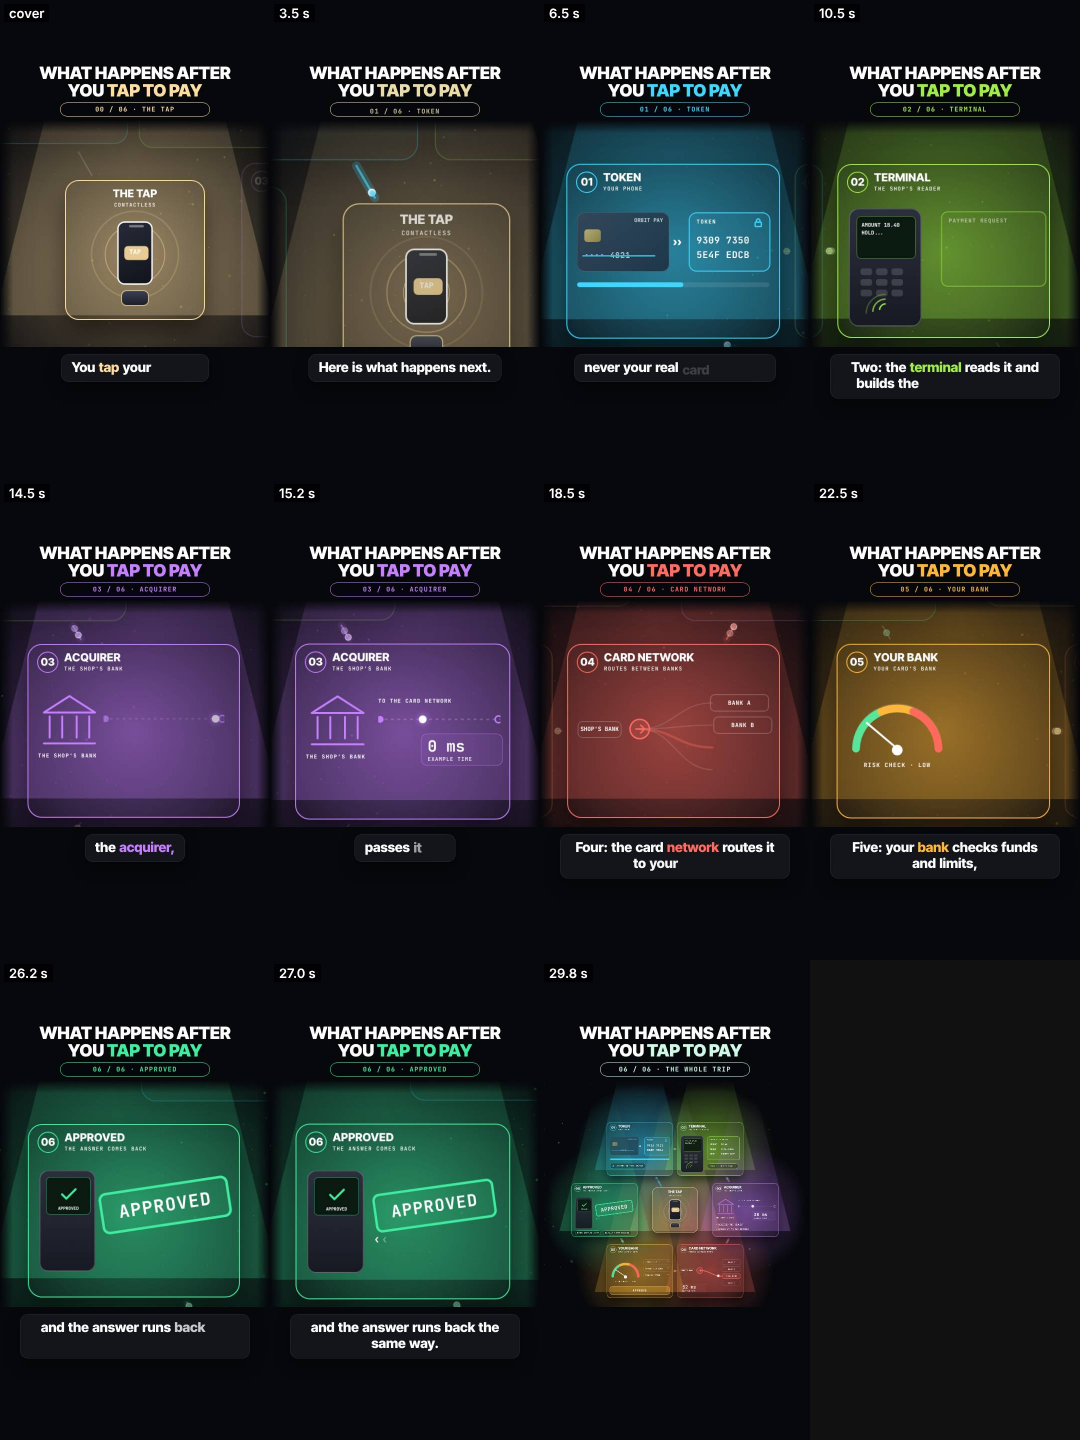
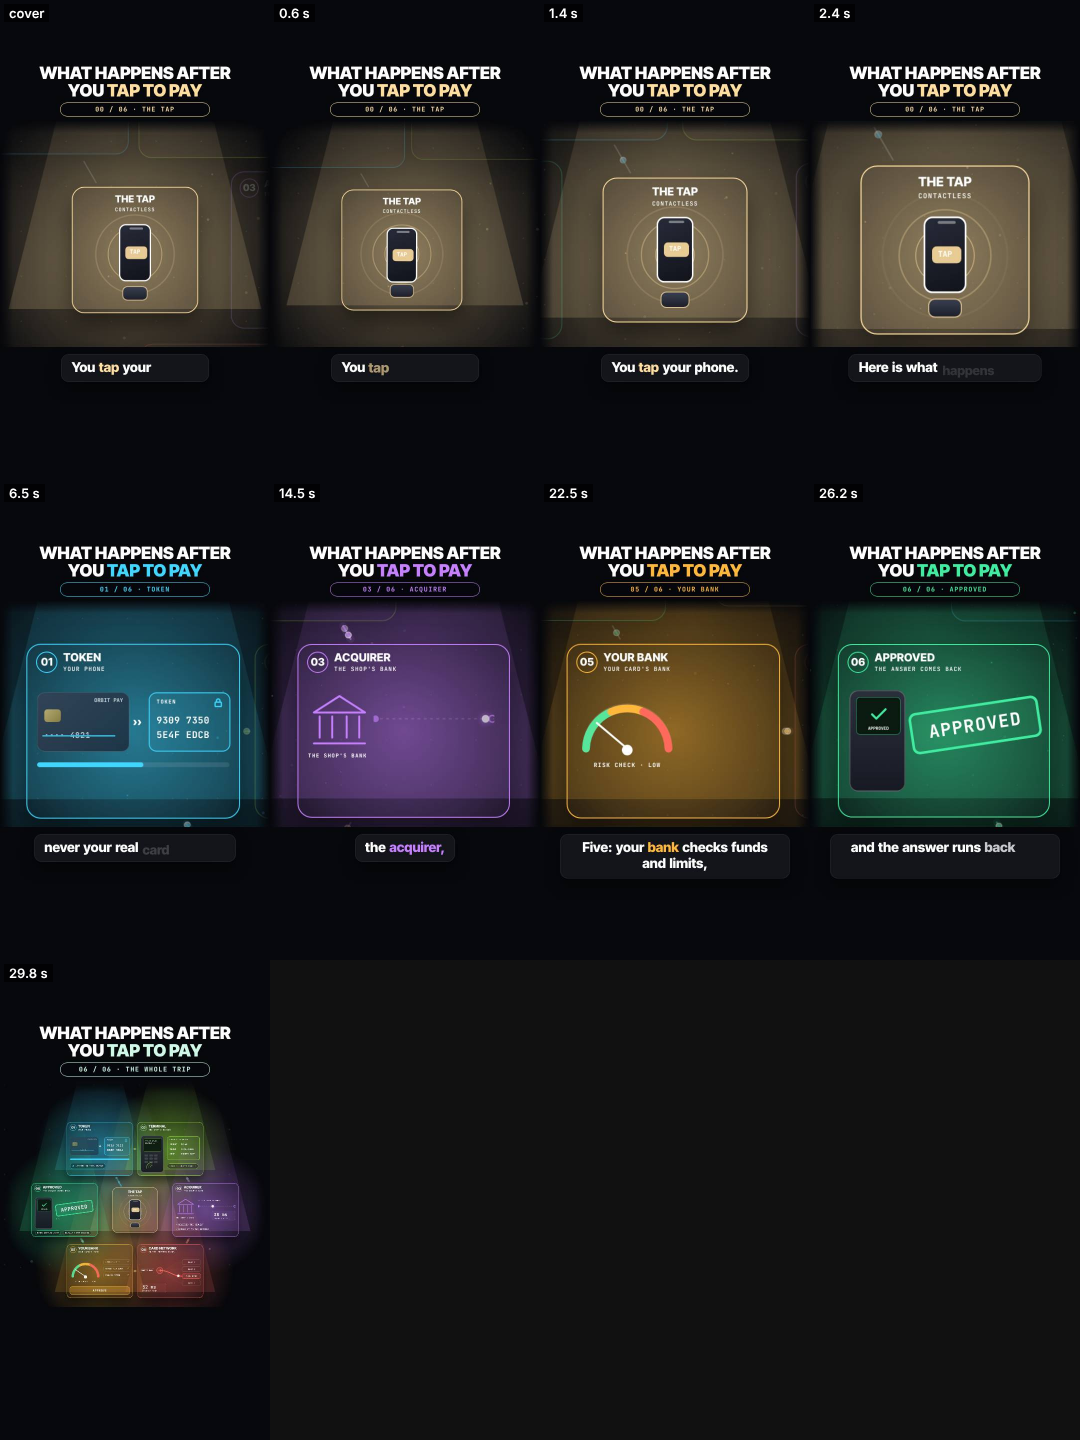
Tech 2.5D test: wide opening on the building map, pill rolls mid-flight, calmer light
Claude-Session: https://claude.ai/code/session_01AYvWRi2rvhxiH5SVcHrGnh

diff --git a/scripts/previews/tech-2d5-test.html b/scripts/previews/tech-2d5-test.html
@@ -28,7 +28,7 @@ html,body{width:540px;height:960px;overflow:hidden;background:var(--ink);font-fa
 .card{left:0;top:0;width:100%;height:100%;border-radius:30px;background:linear-gradient(160deg,var(--ct),rgba(12,14,20,.98) 70%);border:2px solid var(--c);box-shadow:0 30px 60px rgba(0,0,0,.55)}
 .badge{left:20px;top:16px;width:44px;height:44px;border-radius:50%;border:2.5px solid var(--c);color:var(--c);font:800 22px/39px var(--f);text-align:center}
 .nm{left:76px;top:17px;font:800 23px/1 var(--f);letter-spacing:.01em;white-space:nowrap}
-.sb{left:76px;top:46px;font:500 11px/1 var(--m);letter-spacing:.14em;color:rgba(255,255,255,.55);white-space:nowrap}
+.sb{left:76px;top:46px;font:500 12px/1 var(--m);letter-spacing:.12em;color:rgba(255,255,255,.6);white-space:nowrap}
 .mono{font-family:var(--m)}
 .pill2{border-radius:999px;border:1.5px solid var(--c);color:var(--c);font:700 12px/1 var(--m);letter-spacing:.1em;padding:9px 14px;white-space:nowrap;background:rgba(0,0,0,.35)}
 #view{color:#fff;-webkit-text-fill-color:#fff;left:0;top:240px;width:540px;height:454px;overflow:hidden;-webkit-mask-image:linear-gradient(rgba(0,0,0,0) 0,#000 26px);mask-image:linear-gradient(rgba(0,0,0,0) 0,#000 26px)}
@@ -77,7 +77,7 @@ html,body{width:540px;height:960px;overflow:hidden;background:var(--ink);font-fa
   function cam(t){
     var x, y, s, a, b, k;
     if (t < DEP[0]){   // opening: a wide view of the map pushes into the hub
-      k = io(P(t, 0, 2.2)); x = CXW; y = CYW; s = mix(.84, 1.12, k) + .03 * P(t, 2.2, DEP[0]); return [x, y, s];
+      k = io(P(t, 0, 2.6)); x = CXW; y = CYW; s = mix(.76, 1.12, k) + .03 * P(t, 2.2, DEP[0]); return [x, y, s];
     }
     if (t >= PB0){ k = io(P(t, PB0, PB1)); a = stopAt(6); x = mix(a[0] + 6, CXW, k); y = mix(a[1], CYW, k); s = mix(.98, .3, k) ; return [x, y, s - .09 * Math.sin(Math.PI * k) * 0]; }
     for (var i = 0; i < 6; i++){
@@ -111,7 +111,7 @@ html,body{width:540px;height:960px;overflow:hidden;background:var(--ink);font-fa
   for (var i = 0; i <= 6; i++){
     var c = COL[i], w = i ? 440 : 300, h = i ? 360 : 300, px = PTS[i][0], py = PTS[i][1];
     var sp = E(spots, '', 'left:' + (px - 450) + 'px;top:' + (py - 450) + 'px;width:900px;height:900px;opacity:0;background:radial-gradient(circle,' + rgb(c, .5) + ' 0,' + rgb(c, .18) + ' 40%,rgba(0,0,0,0) 68%)', '');
-    var cone = E(spots, 'cone', 'left:' + (px - 300) + 'px;top:' + (py - 760) + 'px;width:600px;height:900px;opacity:0;background:linear-gradient(rgba(0,0,0,0),' + rgb(c, .32) + ')', '');
+    var cone = E(spots, 'cone', 'left:' + (px - 300) + 'px;top:' + (py - 760) + 'px;width:600px;height:900px;opacity:0;background:linear-gradient(rgba(0,0,0,0),' + rgb(c, .22) + ')', '');
     var nd = E(nodes, 'nd' + (i ? '' : ' hub'), 'left:' + (px - w / 2) + 'px;top:' + (py - h / 2) + 'px;--c:' + rgb(c), '');
     E(nd, 'card', '', '');
     if (i){ E(nd, 'badge', '', '0' + i); E(nd, 'nm', '', NAME[i]); E(nd, 'sb', '', SUBT[i]); }
@@ -189,7 +189,7 @@ html,body{width:540px;height:960px;overflow:hidden;background:var(--ink);font-fa
     var lab = E(nd, 'mono', 'left:22px;top:226px;font:700 11px/1 var(--m);letter-spacing:.14em;color:' + cs, 'THE SHOP\'S BANK');
     var rt = E(nd, '', 'left:170px;top:140px;width:250px;height:30px', '<svg width="250" height="30"><line x1="0" y1="15" x2="250" y2="15" stroke="rgba(255,255,255,.2)" stroke-width="3" stroke-dasharray="6 7"/><circle cx="4" cy="15" r="7" fill="' + cs + '"/><circle cx="246" cy="15" r="7" fill="none" stroke="' + cs + '" stroke-width="3"/></svg><div id="dot3" class="a" style="left:0;top:7px;width:16px;height:16px;border-radius:50%;background:#fff;box-shadow:0 0 14px ' + cs + '"></div>');
     var tg = E(nd, 'mono', 'left:170px;top:112px;font:700 11px/1 var(--m);letter-spacing:.12em;color:rgba(255,255,255,.6)', 'TO THE CARD NETWORK');
-    var ms = E(nd, '', 'left:262px;top:186px;width:158px;height:62px;border-radius:12px;border:1.5px solid ' + rgb(c, .6) + ';background:rgba(198,128,255,.08)', '<div id="ms3" class="a mono" style="left:12px;top:8px;font:800 30px/1 var(--m)"></div><div class="a mono" style="left:12px;top:44px;font:500 10px/1 var(--m);letter-spacing:.12em;color:rgba(255,255,255,.55)">EXAMPLE TIME</div>');
+    var ms = E(nd, '', 'left:262px;top:186px;width:158px;height:62px;border-radius:12px;border:1.5px solid ' + rgb(c, .6) + ';background:rgba(198,128,255,.08)', '<div id="ms3" class="a mono" style="left:12px;top:8px;font:800 30px/1 var(--m)"></div><div class="a mono" style="left:12px;top:44px;font:500 11px/1 var(--m);letter-spacing:.12em;color:rgba(255,255,255,.55)">EXAMPLE TIME</div>');
     var r1 = E(nd, 'mono', 'left:22px;top:270px;font:700 14px/1 var(--m);white-space:nowrap', '<span style="color:' + cs + '">&#10003;</span> RECEIVES THE REQUEST');
     var r2 = E(nd, 'mono', 'left:22px;top:302px;font:700 14px/1 var(--m);white-space:nowrap', '<span style="color:' + cs + '">&#10003;</span> PASSES IT TO THE NETWORK');
     var d3 = nd.querySelector('#dot3'), m3 = nd.querySelector('#ms3');
@@ -205,7 +205,7 @@ html,body{width:540px;height:960px;overflow:hidden;background:var(--ink);font-fa
     S(sv, 'circle', { cx: 150, cy: 176, r: 20, fill: 'rgba(255,108,98,.18)', stroke: cs, 'stroke-width': 3 }); S(sv, 'path', { d: 'M142 176h16M152 168l8 8-8 8', fill: 'none', stroke: cs, 'stroke-width': 3, 'stroke-linecap': 'round', 'stroke-linejoin': 'round' });
     var sh = E(nd, 'mono', 'left:22px;top:160px;width:90px;height:34px;border-radius:10px;border:1.5px solid rgba(255,255,255,.4);font:700 12px/31px var(--m);text-align:center', 'SHOP\'S BANK');
     var bks = BY.map(function(y, n){ return E(nd, 'mono', 'left:300px;top:' + y + 'px;width:122px;height:36px;border-radius:10px;border:2px solid ' + (n === sel ? cs : 'rgba(255,255,255,.22)') + ';font:700 12px/32px var(--m);text-align:center;letter-spacing:.06em;' + (n === sel ? 'background:' + rgb(c, .18) : 'color:rgba(255,255,255,.55)'), names[n]); });
-    var ms = E(nd, '', 'left:22px;top:262px;width:170px;height:62px;border-radius:12px;border:1.5px solid ' + rgb(c, .6) + ';background:rgba(255,108,98,.08)', '<div id="ms4" class="a mono" style="left:12px;top:8px;font:800 30px/1 var(--m)"></div><div class="a mono" style="left:12px;top:44px;font:500 10px/1 var(--m);letter-spacing:.12em;color:rgba(255,255,255,.55)">EXAMPLE TIME</div>');
+    var ms = E(nd, '', 'left:22px;top:262px;width:170px;height:62px;border-radius:12px;border:1.5px solid ' + rgb(c, .6) + ';background:rgba(255,108,98,.08)', '<div id="ms4" class="a mono" style="left:12px;top:8px;font:800 30px/1 var(--m)"></div><div class="a mono" style="left:12px;top:44px;font:500 11px/1 var(--m);letter-spacing:.12em;color:rgba(255,255,255,.55)">EXAMPLE TIME</div>');
     var dt = E(nd, '', 'left:0;top:0;width:16px;height:16px;border-radius:50%;background:#fff;box-shadow:0 0 14px ' + cs, ''), m4 = nd.querySelector('#ms4');
     var bez = function(k, y){ var p0 = [150, 176], p1 = [220, 176], p2 = [230, y + 18], p3 = [300, y + 18], u = 1 - k; return [u*u*u*p0[0] + 3*u*u*k*p1[0] + 3*u*k*k*p2[0] + k*k*k*p3[0], u*u*u*p0[1] + 3*u*u*k*p1[1] + 3*u*k*k*p2[1] + k*k*k*p3[1]]; };
     X[4] = function(lt, t){ ent(svg, lt, .3, 'l', .5); ent(sh, lt, .3, 'l', .5); bks.forEach(function(b, n){ ent(b, lt, .7 + n * .16, 'r', .45); });
@@ -245,7 +245,7 @@ html,body{width:540px;height:960px;overflow:hidden;background:var(--ink);font-fa
     var far = 90, ox = -cm[0] * cm[2] * .3, oy = -cm[1] * cm[2] * .3;   // far layer: a faint dot grid moves at under half the camera
     bg.fillStyle = 'rgba(255,255,255,.07)';
     for (var gx = ((ox % far) + far) % far - far; gx < 560; gx += far) for (var gy = ((oy % far) + far) % far - far; gy < 480; gy += far){ bg.beginPath(); bg.arc(gx, gy, 1.6, 0, 6.3); bg.fill(); }
-    for (var n = 0; n < 26; n++){   // near motes: slow drift, move faster than the world, tinted by the lit step
+    for (var n = 0; n < 12; n++){   // near motes: slow drift, move faster than the world, tinted by the lit step
       var px = hh(n, 1) * 900, py = hh(n, 2) * 900, sp = .5 + hh(n, 3) * .9, x = ((px - cm[0] * cm[2] * (.2 + sp * .2) + Math.sin(t * .4 + n) * 12) % 640 + 640) % 640 - 50, y = ((py - cm[1] * cm[2] * (.2 + sp * .2) - t * 6 * sp) % 760 + 760) % 760 - 50;
       var r = .8 + hh(n, 4) * 2.4, al = .12 + .28 * hh(n, 5); bg.fillStyle = rgb(cc, al * (r > 2 ? .6 : 1)); bg.beginPath(); bg.arc(x, y, r, 0, 6.3); bg.fill(); }
   }
@@ -271,21 +271,22 @@ html,body{width:540px;height:960px;overflow:hidden;background:var(--ink);font-fa
   cue({ t: ARR[6] + .75, k: 'thud', g: .5, x: 270, r: .2 }); cue({ t: ARR[6] + 1.1, k: 'shimmer', g: .2 });
   cue({ t: .2, k: 'pop', g: .2, p: 4 });
   window.CUES = { dur: DUR, cues: cues.sort(function(a, b){ return a.t - b.t; }), mix: { duck: 8 }, bed: { bpm: 96, origin: 0, gain: .22, chords: [[45, 57, 64, 67, 71], [41, 57, 60, 64, 69], [43, 55, 62, 67, 71], [45, 57, 64, 67, 71]] } };
-  window.COVER = .9; window.HOLDS = [[2.2, 3.0]]; window.TRANSITIONS = DEP.map(function(d){ return [d, d + FL, 'fly']; }).concat([[PB0, PB1, 'pullback']]);
+  window.COVER = .9; window.HOLDS = [[2.6, 2.9]]; window.TRANSITIONS = DEP.map(function(d){ return [d, d + FL, 'fly']; }).concat([[PB0, PB1, 'pullback']]);
 
   // ---- one frame
   function seek(t){
     t = cl(t, 0, DUR); var cm = cam(t), W = $('world');
     W.style.transform = 'translate(' + (270 - cm[0] * cm[2]).toFixed(2) + 'px,' + (SY - 240 - cm[1] * cm[2]).toFixed(2) + 'px) scale(' + cm[2].toFixed(4) + ')';
     // which step owns the colour now (switches while the camera flies)
-    var cur = 0, ck = 0; for (var i = 1; i <= 6; i++) if (t >= DEP[i - 1] + FL * .2) { cur = i; }
-    var prevI = Math.max(0, cur - 1), kc = cur === 0 ? 1 : io(P(t, DEP[cur - 1] + FL * .1, DEP[cur - 1] + FL * .9)), col = cmix(COL[prevI], COL[cur], kc);
+    var cur = 0, ck = 0; for (var i = 1; i <= 6; i++) if (t >= DEP[i - 1] + FL * .55) { cur = i; }
+    var ci = 0; for (var i2 = 1; i2 <= 6; i2++) if (t >= DEP[i2 - 1] + FL * .1) ci = i2;
+    var prevI = Math.max(0, ci - 1), kc = ci === 0 ? 1 : io(P(t, DEP[ci - 1] + FL * .1, DEP[ci - 1] + FL * .9)), col = cmix(COL[prevI], COL[ci], kc);
     if (t >= PB0) col = cmix(COL[6], [255, 255, 255], io(P(t, PB0, PB1)) * .75);
     document.documentElement.style.setProperty('--c', rgb(col));
     $('tacc').style.color = rgb(col);
     // pill: rolls to the new step
     var pi = cur, ptxt = pi === 0 ? '00 / 06 · THE TAP' : '0' + pi + ' / 06 · ' + NAME[pi]; if (t >= PB0) ptxt = '06 / 06 · THE WHOLE TRIP';
-    var st = pi === 0 ? 0 : DEP[pi - 1] + FL * .2, rk = t >= PB0 ? out(P(t, PB0, PB0 + .45)) : (pi === 0 ? 1 : out(P(t, st, st + .4)));
+    var st = pi === 0 ? 0 : DEP[pi - 1] + FL * .55, rk = t >= PB0 ? out(P(t, PB0, PB0 + .45)) : (pi === 0 ? 1 : out(P(t, st, st + .4)));
     var p0 = $('p0'), p1 = $('p1'), key = ptxt; if (p1.dataset.k !== key) { p0.textContent = p1.textContent || ptxt; p1.textContent = ptxt; p1.dataset.k = key; p1._t = t; }
     if (p1._t === undefined) p1._t = -9; var rr = t >= PB0 ? out(P(t, PB0, PB0 + .45)) : out(P(t, st, st + .4)); if (t < .01) rr = 1;
     p0.style.transform = 'translateY(' + (-rr * 28) + 'px)'; p0.style.opacity = 1 - rr; p1.style.transform = 'translateY(' + ((1 - rr) * 28) + 'px)'; p1.style.opacity = rr;
